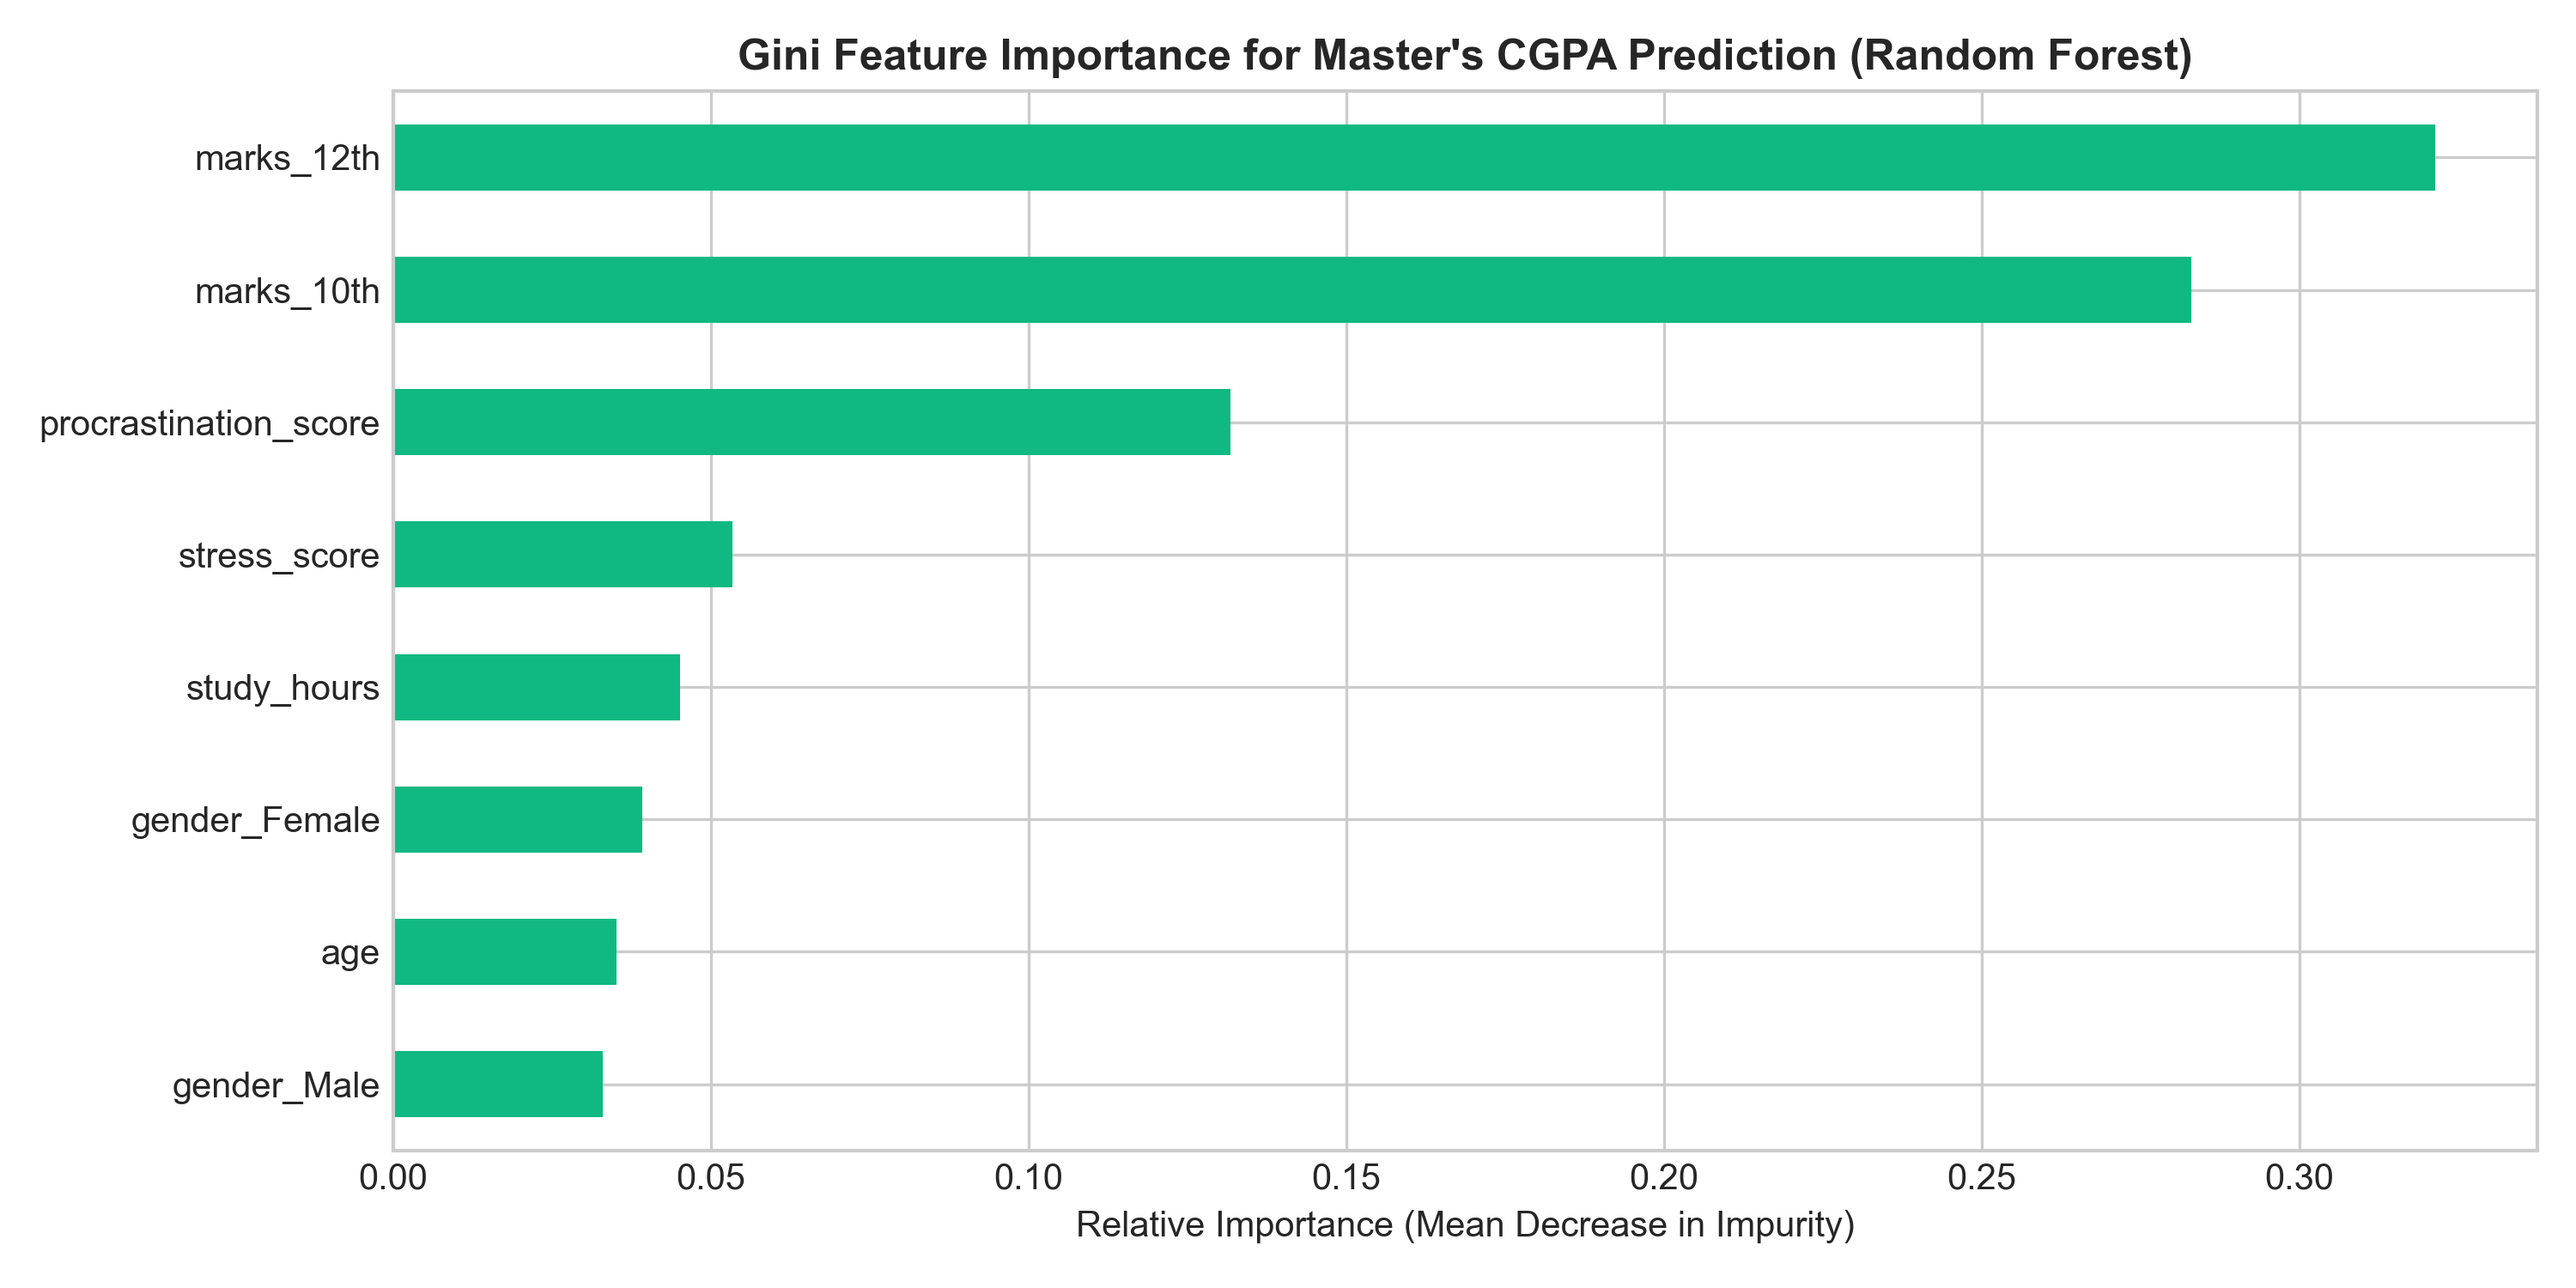
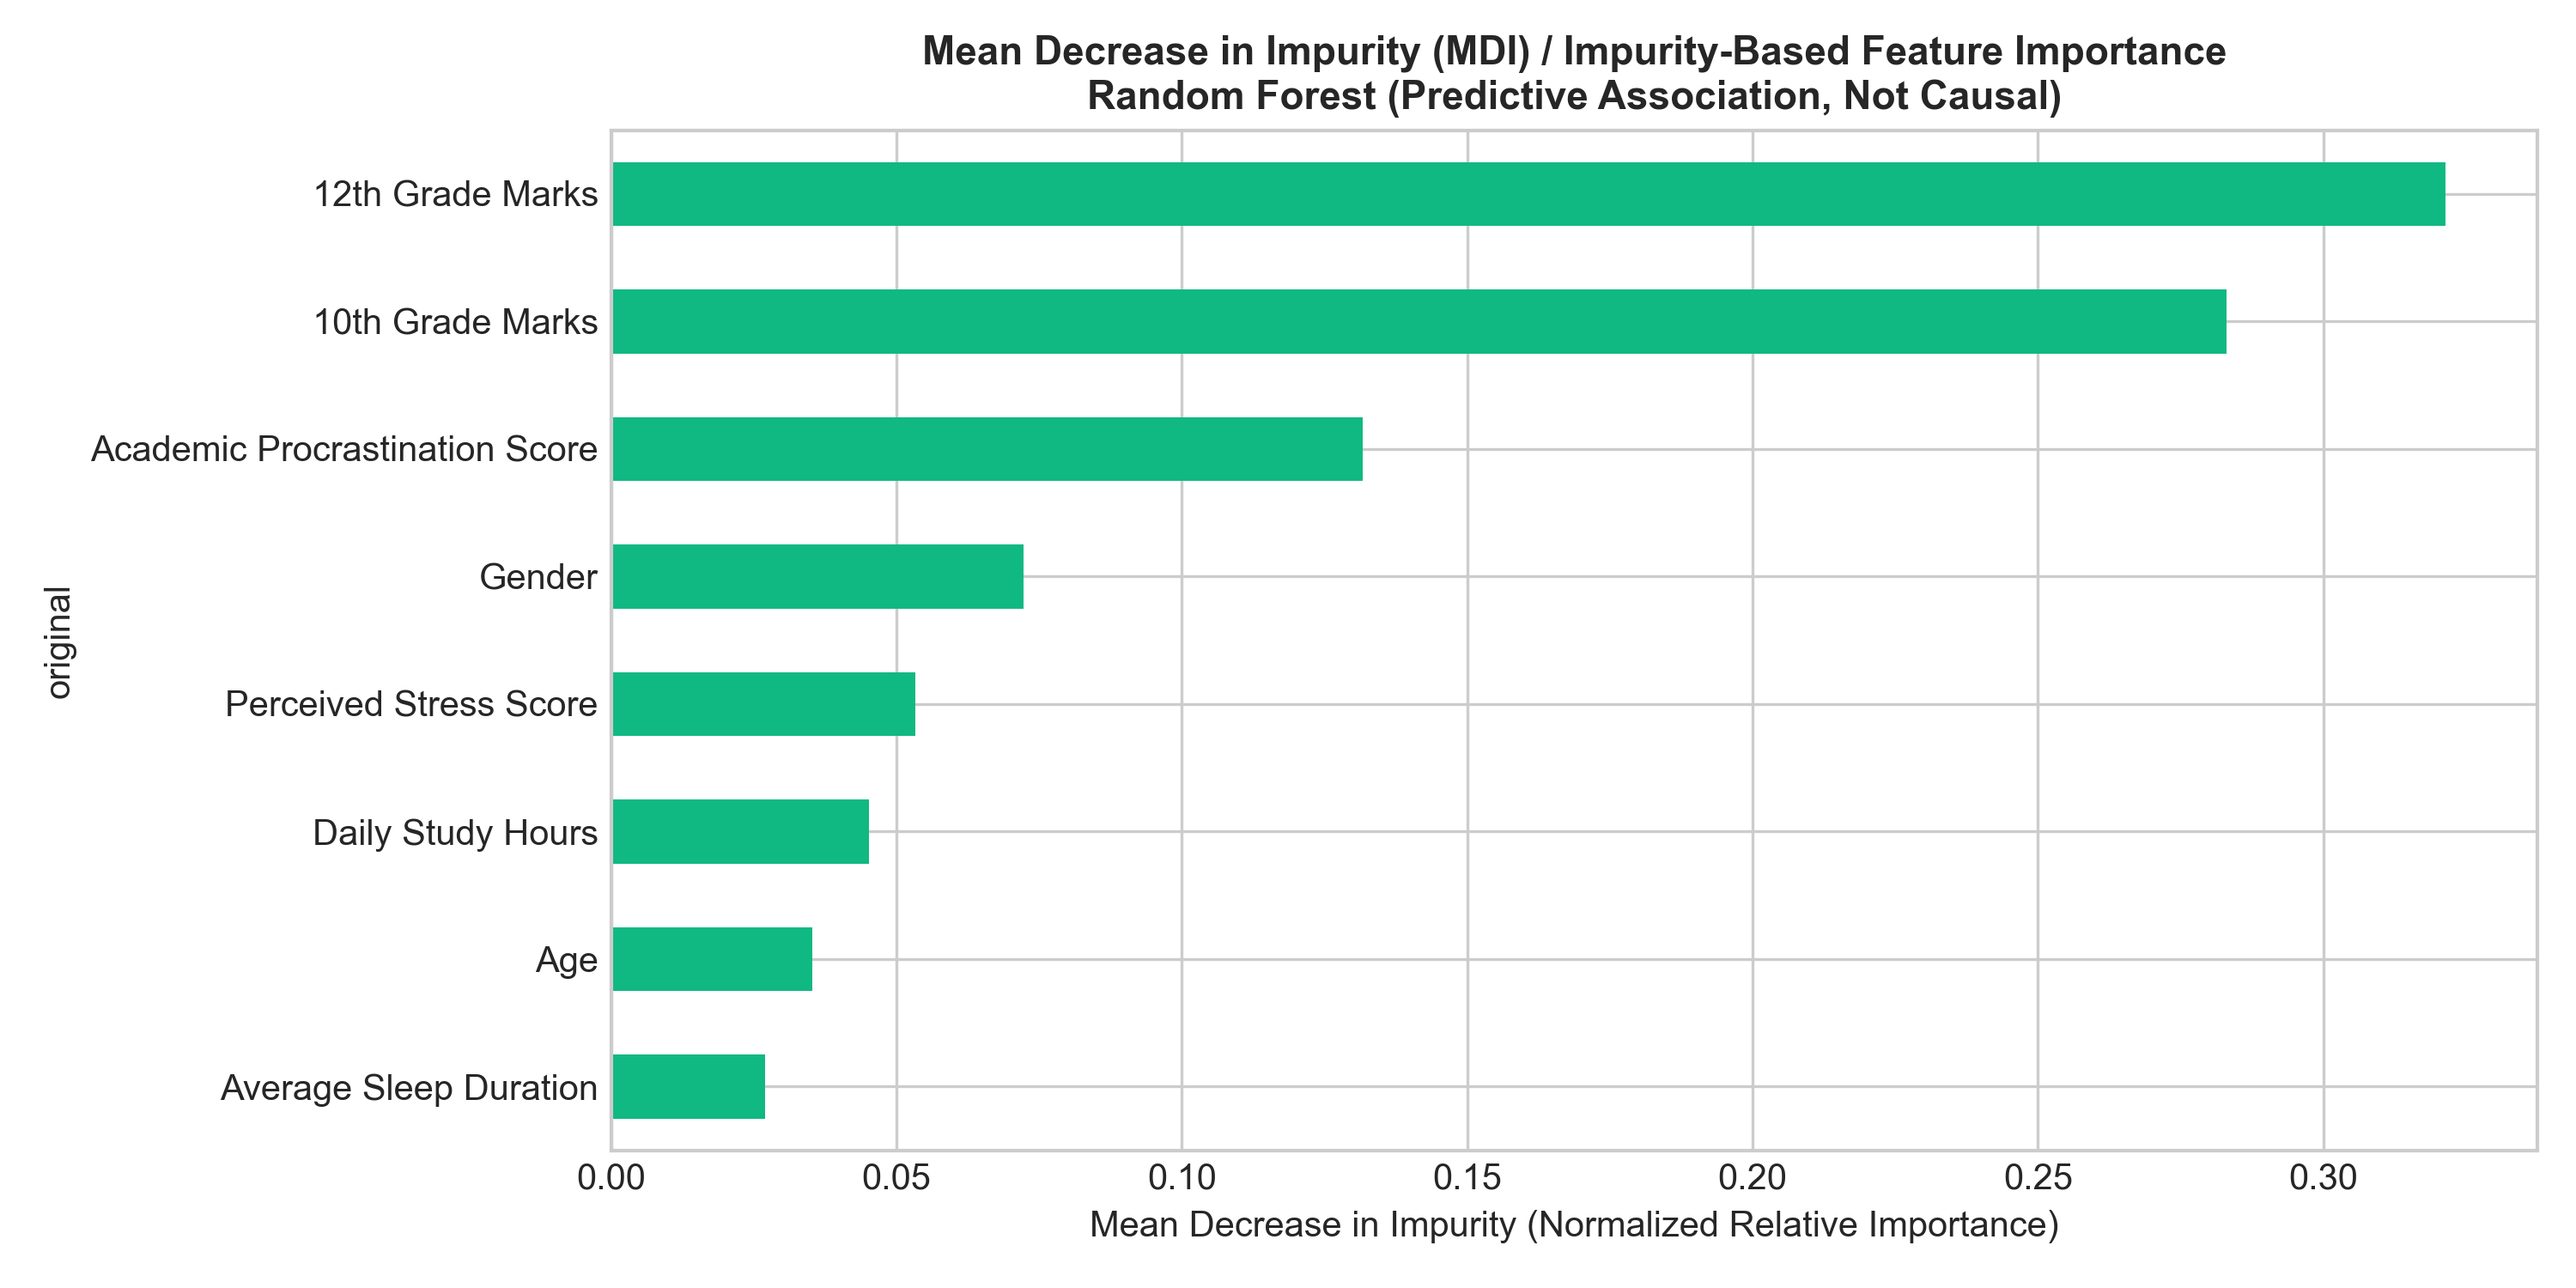
refactor: Update MDI feature importance terminology, aggregate to original feature names, and verify tolerance accuracy calculations

diff --git a/app.py b/app.py
@@ -246,19 +246,18 @@ with st.sidebar:
     if feature_importances is not None and not feature_importances.empty:
         st.markdown("---")
         st.markdown("### 🔍 Top Predictor Contributors")
-        st.caption("Gini Feature Importance (MDI) dynamically extracted from trained champion model:")
+        st.caption("Mean Decrease in Impurity (MDI) / Impurity-Based Feature Importance dynamically extracted from trained champion model:")
         for idx, (feat, val) in enumerate(feature_importances.head(5).items(), 1):
-            clean_name = feat.replace("marks_", "").replace("_", " ").title()
-            st.markdown(f"**{idx}. {clean_name}:** `{val * 100:.1f}%`")
+            st.markdown(f"**{idx}. {feat}:** `{val * 100:.1f}%`")
         st.caption("⚠ *Reflects model predictive association, not causal proof.*")
         
     st.markdown("---")
     st.markdown("### ⚙ Quick Presets")
     preset_choice = st.selectbox(
         "Load Student Persona Profile",
-        ["Custom Input", "High-Risk Candidate (Illustrative)", "Average Student with High Stress (Illustrative)", "High Achiever (Illustrative)"]
+        ["Custom Input", "High-Risk Candidate (Illustrative Example)", "Average Student with High Stress (Illustrative Example)", "High Achiever (Illustrative Example)"]
     )
-    st.caption("Select an illustrative persona preset to auto-populate the assessment form.")
+    st.caption("Select an illustrative preset profile (for demonstration only) to auto-populate the assessment form.")
 
 # Parse Preset Values
 default_10th = 8.5
@@ -873,16 +872,16 @@ with tab_analytics:
             st.info("Actual vs. Predicted plot available after running `python train_pipeline.py`.")
             
     with c_img2:
-        st.markdown("##### 🌲 Gini Feature Importance (Champion Model)")
+        st.markdown("##### 🌲 Mean Decrease in Impurity (MDI) / Impurity-Based Feature Importance")
         if os.path.exists("outputs/plots/feature_importance.png"):
-            st.image("outputs/plots/feature_importance.png", caption="Gini Feature Importance for Master's CGPA", use_container_width=True)
+            st.image("outputs/plots/feature_importance.png", caption="Mean Decrease in Impurity (MDI) / Impurity-Based Feature Importance", use_container_width=True)
         elif feature_importances is not None and not feature_importances.empty:
             fig_fi = px.bar(
                 x=feature_importances.values[:10],
-                y=[f.replace("marks_", "").replace("_", " ").title() for f in feature_importances.index[:10]],
+                y=feature_importances.index[:10],
                 orientation="h",
                 labels={"x": "Relative Importance", "y": "Feature"},
-                title="Gini Feature Importance (MDI)"
+                title="Mean Decrease in Impurity (MDI) / Impurity-Based Feature Importance"
             )
             fig_fi.update_layout(yaxis=dict(autorange="reversed"), height=350)
             st.plotly_chart(fig_fi, use_container_width=True)
@@ -908,6 +907,6 @@ with tab_methodology:
     4. **Stage 4 (Exploratory Data Analysis):** Analyzed correlation heatmaps, feature distributions, and multicollinearity patterns.
     5. **Stage 5 (Leakage-Free Pipeline Architecture):** Built Scikit-Learn `ColumnTransformer` wrapping numerical imputation (`median`) and `StandardScaler` for continuous features, alongside categorical imputation (`most_frequent`) and `OneHotEncoder(handle_unknown='ignore')` for `gender` and `programme`. Target variable strictly excluded from features.
     6. **Stage 6 (Multi-Model 5-Fold Cross-Validation & Benchmark):** Trained 6 regression algorithms (Linear Regression, Ridge, Decision Tree, Random Forest, Extra Trees, Gradient Boosting) using 80/20 train/test split. Champion model selected based strictly on 5-fold cross-validation on the training set.
-    7. **Stage 7 (Explainability & Feature Importance):** Dynamic extraction of Gini feature importances (Mean Decrease in Impurity) indicating primary predictive contributions from academic foundations (12th Marks, 10th Marks) and behavioral self-regulation (Procrastination, Stress).
+    7. **Stage 7 (Explainability & Feature Importance):** Dynamic extraction of Mean Decrease in Impurity (MDI) / Impurity-Based Feature Importance indicating primary predictive associations from academic foundations (12th Marks, 10th Marks) and behavioral self-regulation (Procrastination, Stress). Highlights predictive association, not causal proof.
     8. **Stage 8 (Decoupled Personalised Prescriptions):** Independent rule-based advisory engine generating actionable, prioritized interventions across attendance, stress, procrastination, study time, and sleep hygiene.
     """)

diff --git a/train_pipeline.py b/train_pipeline.py
@@ -369,24 +369,41 @@ plt.close()
 print("[+] Saved actual vs predicted plot: outputs/plots/actual_vs_predicted.png")
 
 # ==============================================================================
-# STAGE 7: DYNAMIC FEATURE IMPORTANCE & EXPLAINABILITY
+# STAGE 7: DYNAMIC FEATURE IMPORTANCE & EXPLAINABILITY (MDI)
 # ==============================================================================
 print("\n" + "=" * 78)
-print("STAGE 7: DYNAMIC FEATURE IMPORTANCE EXTRACTION (CHAMPION MODEL)")
+print("STAGE 7: MEAN DECREASE IN IMPURITY (MDI) / IMPURITY-BASED FEATURE IMPORTANCE")
 print("=" * 78)
 
 champion_estimator = best_pipeline.named_steps["model"]
 preprocessor_step = best_pipeline.named_steps["preprocessor"]
 
-# Extract transformed feature names directly from preprocessor
 raw_feat_names = list(preprocessor_step.get_feature_names_out())
-clean_feat_names = [f.replace("num__", "").replace("cat__", "") for f in raw_feat_names]
+
+def map_to_original_feature(name):
+    clean = name.replace("num__", "").replace("cat__", "")
+    if clean.startswith("gender_"): return "Gender"
+    if clean.startswith("programme_"): return "Programme"
+    if clean == "marks_12th": return "12th Grade Marks"
+    if clean == "marks_10th": return "10th Grade Marks"
+    if clean == "procrastination_score": return "Academic Procrastination Score"
+    if clean == "stress_score": return "Perceived Stress Score"
+    if clean == "study_hours": return "Daily Study Hours"
+    if clean == "sleep_hours": return "Average Sleep Duration"
+    if clean == "attendance": return "Class Attendance Percentage"
+    if clean == "age": return "Age"
+    return clean
 
 if hasattr(champion_estimator, "feature_importances_"):
-    feat_imp = pd.Series(champion_estimator.feature_importances_, index=clean_feat_names).sort_values(ascending=False)
-    print(f"\nGini Feature Importance Rankings ({best_model_name}):")
-    for feat, imp in feat_imp.head(10).items():
-        print(f"  - {feat:<30}: {imp * 100:.2f}%")
+    df_feat_imp = pd.DataFrame({"raw": raw_feat_names, "importance": champion_estimator.feature_importances_})
+    df_feat_imp["original"] = df_feat_imp["raw"].apply(map_to_original_feature)
+    feat_imp = df_feat_imp.groupby("original")["importance"].sum().sort_values(ascending=False)
+    # Normalized for display
+    feat_imp = feat_imp / feat_imp.sum()
+    
+    print(f"\nMean Decrease in Impurity (MDI) / Impurity-Based Feature Importance ({best_model_name}):")
+    for feat, imp in feat_imp.items():
+        print(f"  - {feat:<32}: {imp * 100:.2f}%")
         
     joblib.dump(feat_imp, os.path.join(MODEL_DIR, "feature_importances.joblib"))
     print(f"[+] Saved feature importance series: {os.path.join(MODEL_DIR, 'feature_importances.joblib')}")
@@ -394,8 +411,8 @@ if hasattr(champion_estimator, "feature_importances_"):
     # Plot Feature Importances
     plt.figure(figsize=(10, 5))
     feat_imp.head(8).plot(kind="barh", color="#10B981")
-    plt.title(f"Gini Feature Importance for Master's CGPA Prediction ({best_model_name})", fontsize=12, fontweight="bold")
-    plt.xlabel("Relative Importance (Mean Decrease in Impurity)")
+    plt.title(f"Mean Decrease in Impurity (MDI) / Impurity-Based Feature Importance\n{best_model_name} (Predictive Association, Not Causal)", fontsize=11, fontweight="bold")
+    plt.xlabel("Mean Decrease in Impurity (Normalized Relative Importance)")
     plt.gca().invert_yaxis()
     plt.tight_layout()
     plt.savefig("outputs/plots/feature_importance.png", dpi=300)
